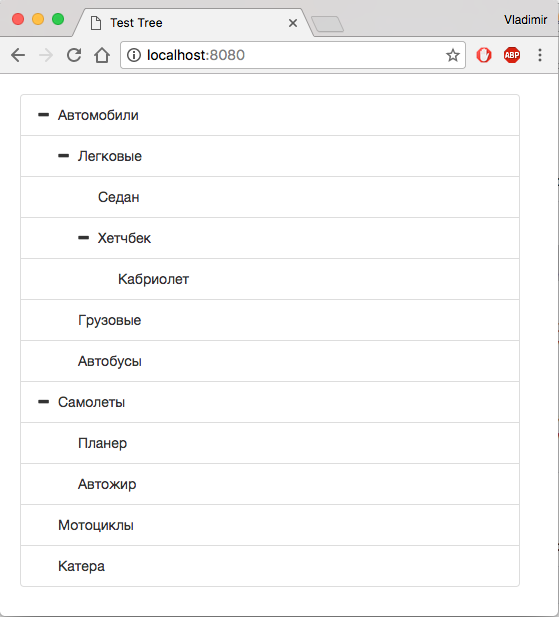
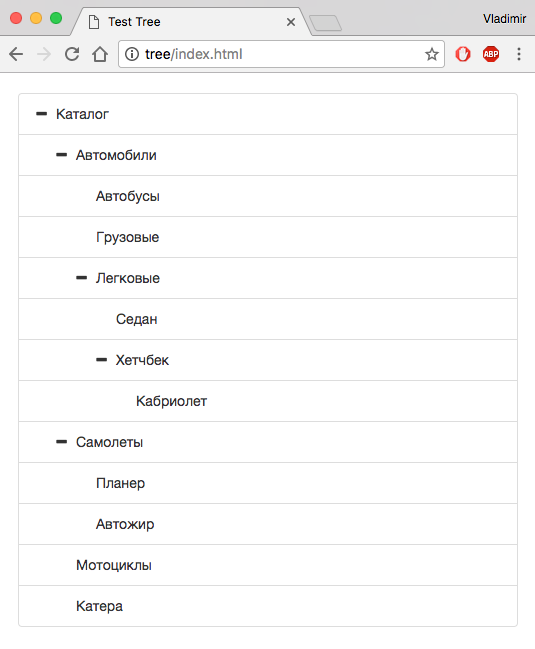
DB data

Changed region(s): [[0.0, 0.0, 1.0, 1.0], [0.0299, 0.154, 0.3888, 0.9546]]

diff --git a/readme.md b/readme.md
@@ -87,18 +87,19 @@ CREATE TABLE category (
 );
 
 INSERT INTO `category` (`id`, `parent_category_id`, `name`) VALUES
-(1, 0, 'Автомобили'),
-(2, 0, 'Самолеты'),
-(3, 0, 'Мотоциклы'),
-(4, 0, 'Катера'),
-(5, 1, 'Легковые'),
-(6, 1, 'Грузовые'),
-(7, 1, 'Автобусы'),
-(8, 5, 'Седан'),
-(9, 5, 'Хетчбек'),
-(10, 9, 'Кабриолет'),
-(11, 2, 'Планер'),
-(12, 2, 'Автожир');
+(1, 0, 'Каталог'),
+(2, 1, 'Автомобили'),
+(3, 1, 'Самолеты'),
+(4, 1, 'Мотоциклы'),
+(5, 1, 'Катера'),
+(6, 2, 'Легковые'),
+(7, 2, 'Грузовые'),
+(8, 2, 'Автобусы'),
+(9, 6, 'Седан'),
+(10, 6, 'Хетчбек'),
+(11, 10, 'Кабриолет'),
+(12, 3, 'Планер'),
+(13, 3, 'Автожир');
 
 ```
 Используемые ключи описаны в структуре таблицы.
@@ -121,24 +122,82 @@ INSERT INTO `category` (`id`, `parent_category_id`, `name`) VALUES
 
 #### Варианты решения простых задач
 
+Выборка всех категорий для последующего построения дерева:
+
+```sql
+SELECT
+(
+   SELECT
+      parent_category_id 
+   FROM
+      category 
+   WHERE
+      id = c.parent_category_id) id,
+      (
+         SELECT
+            name 
+         FROM
+            category 
+         WHERE
+            id = c.parent_category_id
+      )
+      parent,
+      GROUP_CONCAT(c.id) ids,
+      GROUP_CONCAT(c.name) path 
+   FROM
+      category c 
+   WHERE
+      c.parent_category_id > 0 
+   GROUP BY
+      c.parent_category_id
+```
+
+![sql4](sql4.png)
+
+
 Выборка всех категорий верхнего уровня, начинающихся на “авто”:
 
 ```sql
-SELECT * FROM (
-  SELECT parent_category_id, GROUP_CONCAT(id) children, COUNT(id) cnt, name 
-  FROM `category` 
-  GROUP BY parent_category_id) cats 
-WHERE cnt>1 AND name LIKE 'авто%’;
+SSELECT
+    * 
+ FROM
+    (
+       SELECT
+          parent_category_id,
+          GROUP_CONCAT(id) children,
+          COUNT(id) cnt,
+          name 
+       FROM
+          category 
+       GROUP BY
+          parent_category_id
+    )
+    cats 
+ WHERE
+    cnt > 1 
+    AND name LIKE 'авто%'
 ```
 ![sql1](sql1.png)
 
 Выборка всех категорий, имеющих не более трёх подкатегорий следующего уровня (без глубины):
 
 ```sql
-SELECT * FROM (
-  SELECT parent_category_id, GROUP_CONCAT(id) children, COUNT(id) cnt 
-  FROM `category` GROUP BY parent_category_id) cats 
-WHERE cnt<3;
+SELECT
+   * 
+FROM
+   (
+      SELECT
+         parent_category_id,
+         GROUP_CONCAT(id) children,
+         COUNT(id) cnt 
+      FROM
+         ` category ` 
+      GROUP BY
+         parent_category_id
+   )
+   cats 
+WHERE
+   cnt < 3
 ```
 ![sql2](sql2.png)
 
@@ -146,12 +205,20 @@ WHERE cnt<3;
 Выборка всех категорий нижнего уровня (т.е. не имеющих детей):
 
 ```sql
-SELECT * FROM category 
-WHERE id NOT IN (
-  SELECT parent_category_id 
-  FROM `category` 
-  GROUP BY parent_category_id
-);
+SELECT
+   * 
+FROM
+   category 
+WHERE
+   id NOT IN 
+   (
+      SELECT
+         parent_category_id 
+      FROM
+         category 
+      GROUP BY
+         parent_category_id 
+   )
 ```
 ![sql3](sql3.png)
 
